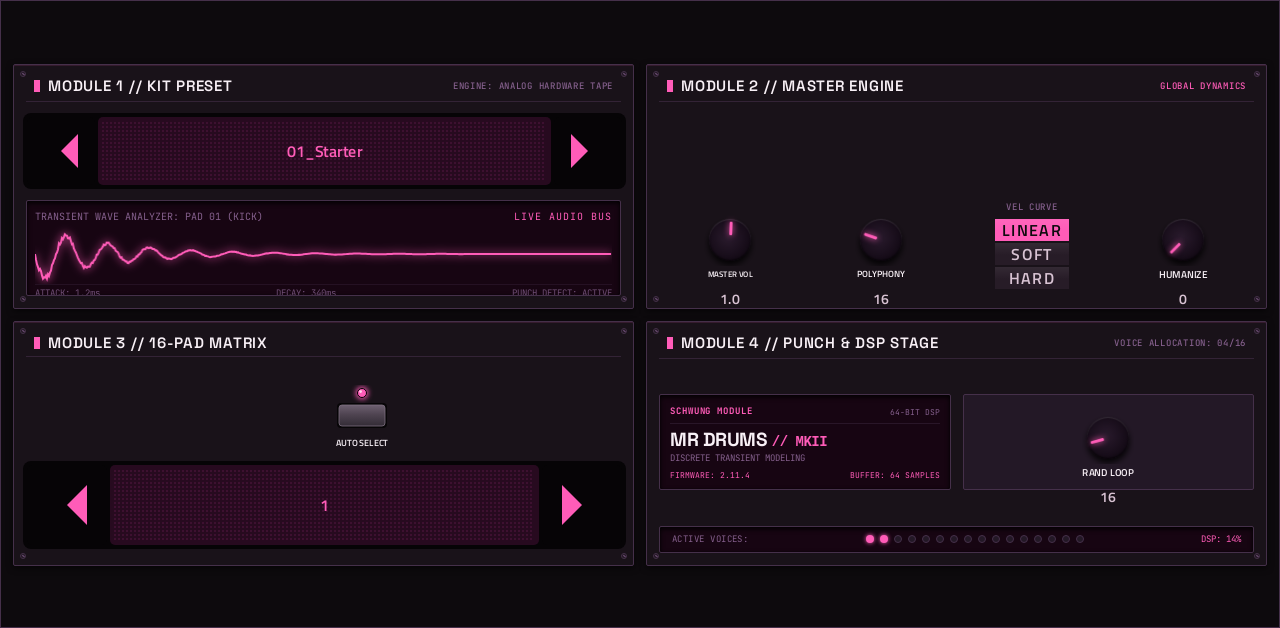
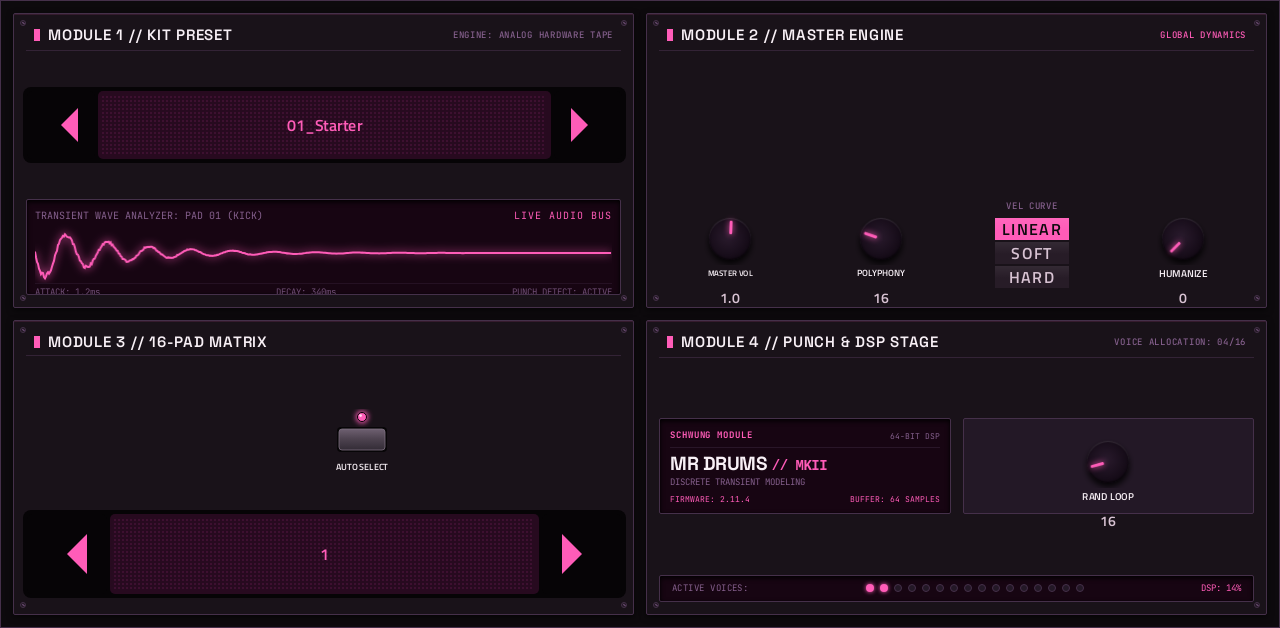
30 screens fill the plugin area (no empty bands above and below)
Rebuilt with the converter's `fill`: 303 (Open303), Aphex, Denis, Elements, Grids, GrooveBank, Hank,
Helm, Hera, Hush One, LibPO32, Marbles (SETUP only), MazeLite, MIDI Player, MonkSynth, Moog
(RaffoSynth: its frame centred), Mr Drums, Mr Hyde, Noisemaker, OB-Xd, PixelWalkers, Plaits, Rampage
(Dual Slope), Rings, Rings FX, SuperArp, Tablor, Verglas, Warps, Wurl. Same controls, parameters and
Q-Link order; only positions moved. Moog's and Noisemaker's hand edits (FILTER switch, BANK, the
shorter scope, design QA moves) carried over. Helm's switch captions now show the parameters' names.

Builds PASSED (offline test), check_skin OK for all 30, screenshots refreshed from the engine's
state. The .so files are the committed ones (only the screens changed). Not on a device yet.

diff --git a/README.md b/README.md
@@ -67,6 +67,9 @@ Use one or the other for this plugin: both register the same plugin (same uid), 
 - New touchscreen page from its Google Stitch design (`design/`): the design's artwork as the background, its own knob art, live names and values, and controls the design left out added in its style (see RESKINNING.md).
 - Presets in MPC's PRESET menu (2026-10-03): its kits are VST programs, listed live from the engine (vst.json
   `programs` with `count` and `name_at`; the engine answers a preset's name by number, marked MPC port), so kit folders you add show up.
+- **Full-height screen (2026-10-18)**: the panels fill MPC's 1280 × 628 plugin area. The Stitch conversion used to
+  centre the design at the height it had under its own header and footer (MPC draws its own), which left an empty
+  band above and below.
 
 ## Files
 
